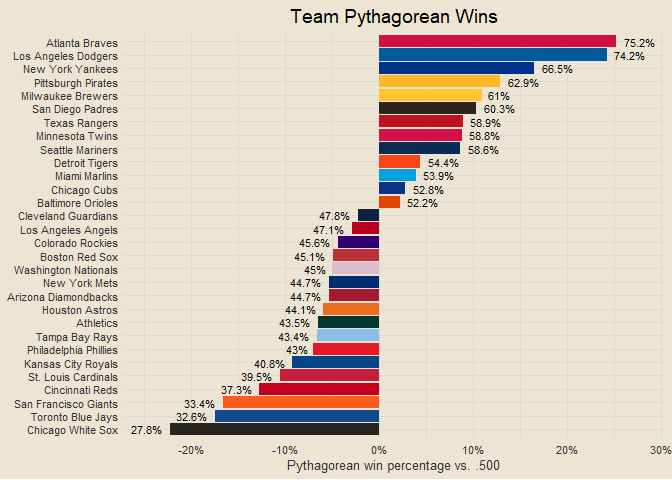
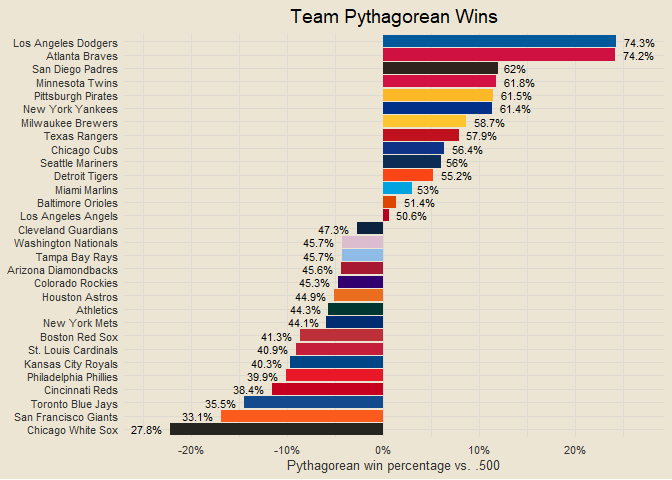
new commit no updates really

diff --git a/README.md b/README.md
@@ -241,16 +241,16 @@ all_results |>
     ## # A tibble: 30 × 5
     ##    team                   sc    al    py  wins
     ##    <chr>               <dbl> <dbl> <dbl> <dbl>
-    ##  1 Atlanta Braves       36.1  26.1 0.658 107. 
-    ##  2 Los Angeles Dodgers  37.0  28.0 0.636 103  
-    ##  3 New York Yankees     32.6  25.2 0.626 101. 
-    ##  4 San Diego Padres     32.9  27.8 0.585  94.7
-    ##  5 Texas Rangers        30.6  27.6 0.552  89.4
-    ##  6 Pittsburgh Pirates   32.4  29.4 0.548  88.8
-    ##  7 Minnesota Twins      37.1  33.8 0.546  88.5
-    ##  8 Milwaukee Brewers    31.8  29.7 0.534  86.4
-    ##  9 Detroit Tigers       26.8  25.1 0.533  86.3
-    ## 10 Seattle Mariners     30.0  28.6 0.524  84.8
+    ##  1 Atlanta Braves       38.6  28.3 0.650 105. 
+    ##  2 Los Angeles Dodgers  38.4  29.0 0.637 103. 
+    ##  3 San Diego Padres     34.9  28.8 0.596  96.5
+    ##  4 New York Yankees     33.6  27.8 0.592  96  
+    ##  5 Minnesota Twins      39.6  33.8 0.578  93.6
+    ##  6 Texas Rangers        31.6  29.0 0.543  88  
+    ##  7 Pittsburgh Pirates   34.4  31.7 0.542  87.8
+    ##  8 Los Angeles Angels   37.9  34.9 0.541  87.6
+    ##  9 Detroit Tigers       28.2  26.1 0.539  87.3
+    ## 10 Milwaukee Brewers    34.4  32.7 0.525  85.1
     ## # ℹ 20 more rows
 
 ``` r
